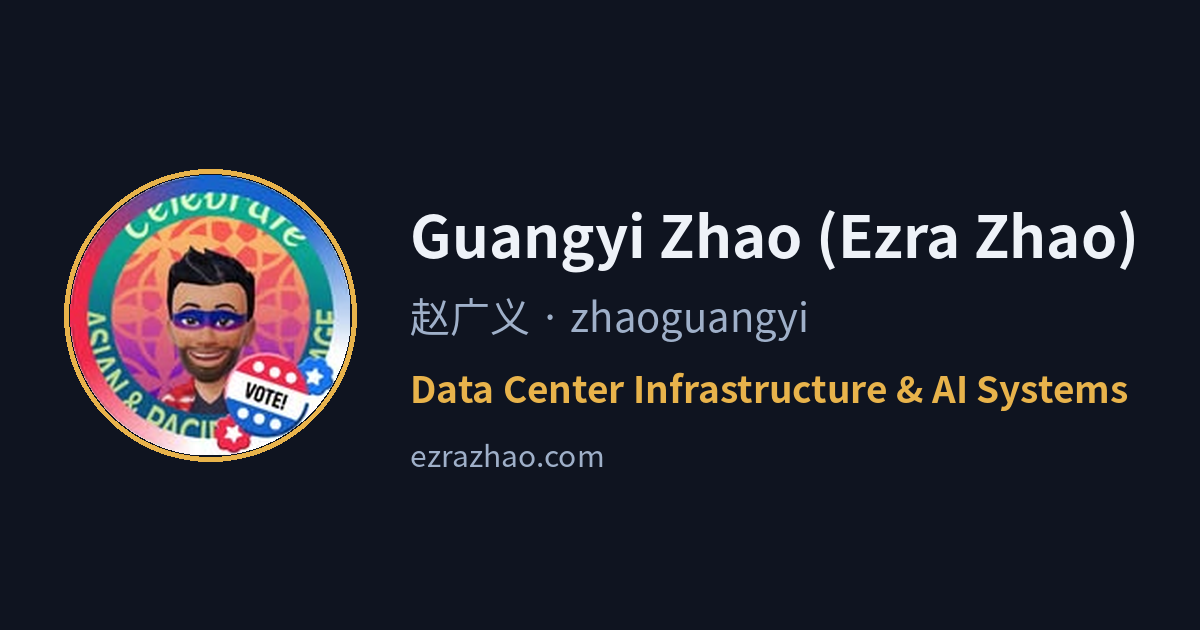
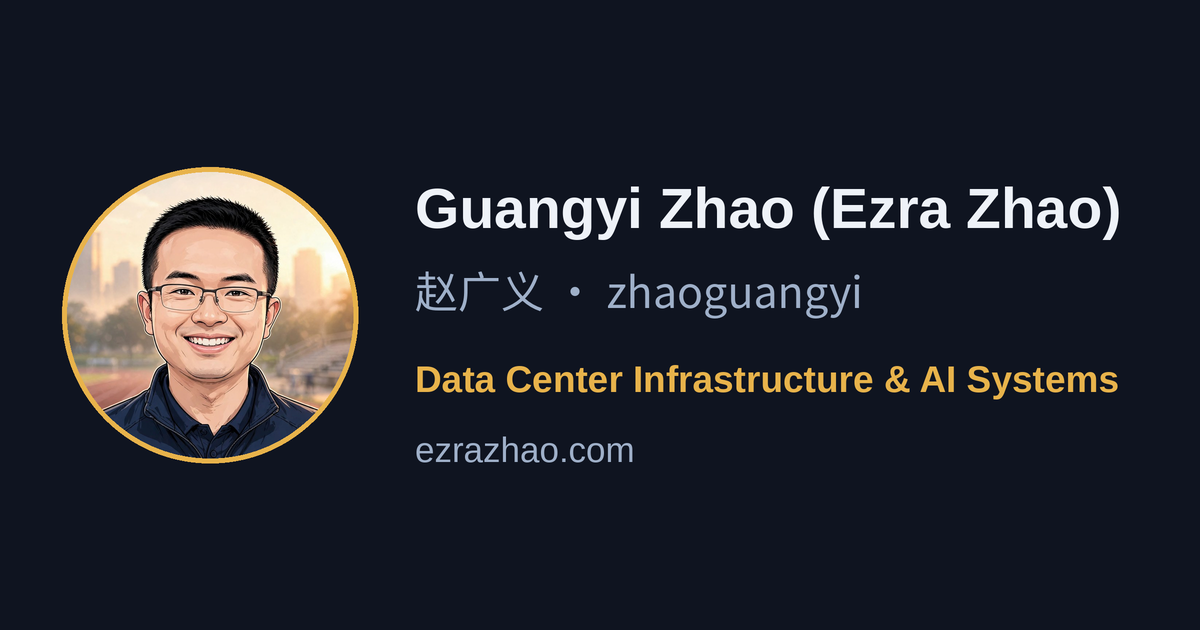
主页口径纠正（Ezra 16:51-16:52）：JSON-LD worksFor 删除 CoreNex Capital LLC 只留 Quanta（母版+11语言页）；preview2 认识我话术改「一个认真努力拉动全家的父亲和儿子」先人后事（门卡+#about首句）；关注模块 GitHub 后加「敬请期待」占位卡（跨2列·虚线·不可点）；头像换定版 S1（portrait.jpg 内容替换+og-card 圆形头像同步重做）

diff --git a/docs/preview2.html b/docs/preview2.html
@@ -43,6 +43,8 @@
   @media(min-width:640px){.fbtns{grid-template-columns:1fr 1fr 1fr}}
   .fbtn{display:block;background:var(--card2);border:1px solid var(--line);border-radius:14px;padding:9px 8px;text-decoration:none;color:var(--ink);font-size:14.5px;line-height:1.45}
   .fbtn b{color:var(--acc);display:block;font-size:16px}
+  .fbtn.soon{grid-column:span 2;border-style:dashed;background:transparent;color:var(--sub)}
+  .fbtn.soon b{color:var(--sub)}
   .followbox .mailab{margin-top:14px;font-size:16.5px;font-weight:700}
   main{max-width:760px;margin:0 auto;padding:6px 14px 48px}
   section{background:var(--card);border:1px solid var(--line);border-radius:14px;padding:18px 18px;margin-top:16px}
@@ -124,6 +126,7 @@
       <a class="fbtn" href="https://www.facebook.com/ezra.zhao"><b>Facebook</b> 关注</a>
       <a class="fbtn" href="https://www.facebook.com/profile.php?id=513125502098379"><b>FB 主页</b> Glory Power Media</a>
       <a class="fbtn" href="https://github.com/Ezra-Zhao"><b>GitHub</b> 关注</a>
+      <div class="fbtn soon"><b>敬请期待</b> 更多平台陆续开通</div>
     </div>
     <p class="mailab">订阅邮件，新内容直达邮箱</p>
     <div class="fbtns">
@@ -148,16 +151,17 @@
   </section>
 
   <div class="doors">
-    <a class="door" href="#about"><h3>认识我 <span class="arr">→</span></h3><p>白天做 AI 与数据中心基础设施的工程师：职业身份、擅长领域与公开主页。</p></a>
+    <a class="door" href="#about"><h3>认识我 <span class="arr">→</span></h3><p>一个认真努力拉动全家的父亲和儿子：他的工作、擅长与公开主页。</p></a>
     <a class="door" href="#podcast"><h3>听节目 <span class="arr">→</span></h3><p>讲道播客、每日灵修（五语）、赞美诗与视频：通勤、睡前都能听。</p></a>
     <a class="door" href="#books"><h3>读书买书 <span class="arr">→</span></h3><p>《圣经伴读》免费试读、讲道全集、拆书笔记、专栏与数字产品。</p></a>
   </div>
 
   <section id="about">
     <h2>认识我 <span class="tag">工程师 · PMP</span></h2>
+    <p class="desc">一个认真努力拉动全家的父亲和儿子。</p>
     <div class="jobs">
       <p>数据中心基础设施与系统工程师 · Quanta Manufacturing Fremont</p>
-      <p>高级技术项目经理（Senior TPM）· CoreNex Capital LLC</p>
+      <p>高级技术项目经理（Senior TPM）</p>
     </div>
     <div class="chips"><span>Data Center Infrastructure</span><span>Liquid Cooling Systems</span><span>Distributed GPU Clusters</span><span>AI Foundation Model Fine-Tuning</span><span>Linux System Administration</span><span>High-Speed Networking (InfiniBand, RoCE, 400G Ethernet)</span><span>Cybersecurity</span><span>Research &amp; Development</span><span>Turnkey Engineering Projects</span><span>AI Deployment</span></div>
     <p class="prow">公开主页：<a href="https://github.com/Ezra-Zhao">GitHub</a> · <a href="https://x.com/EzraZhao64144">X</a> · <a href="https://dev.to/ezrazhao">Dev.to 技术专栏</a></p>

diff --git a/docs/ar/index.html b/docs/ar/index.html
@@ -47,8 +47,7 @@
   "url": "https://ezrazhao.com/",
   "jobTitle": ["Data Center Infrastructure and Systems Engineer", "Senior TPM"],
   "worksFor": [
-    { "@type": "Organization", "name": "Quanta Manufacturing Fremont" },
-    { "@type": "Organization", "name": "CoreNex Capital LLC" }
+    { "@type": "Organization", "name": "Quanta Manufacturing Fremont" }
   ],
   "address": {
     "@type": "PostalAddress",

diff --git a/docs/en/index.html b/docs/en/index.html
@@ -47,8 +47,7 @@
   "url": "https://ezrazhao.com/",
   "jobTitle": ["Data Center Infrastructure and Systems Engineer", "Senior TPM"],
   "worksFor": [
-    { "@type": "Organization", "name": "Quanta Manufacturing Fremont" },
-    { "@type": "Organization", "name": "CoreNex Capital LLC" }
+    { "@type": "Organization", "name": "Quanta Manufacturing Fremont" }
   ],
   "address": {
     "@type": "PostalAddress",

diff --git a/docs/es/index.html b/docs/es/index.html
@@ -47,8 +47,7 @@
   "url": "https://ezrazhao.com/",
   "jobTitle": ["Data Center Infrastructure and Systems Engineer", "Senior TPM"],
   "worksFor": [
-    { "@type": "Organization", "name": "Quanta Manufacturing Fremont" },
-    { "@type": "Organization", "name": "CoreNex Capital LLC" }
+    { "@type": "Organization", "name": "Quanta Manufacturing Fremont" }
   ],
   "address": {
     "@type": "PostalAddress",

diff --git a/docs/fr/index.html b/docs/fr/index.html
@@ -47,8 +47,7 @@
   "url": "https://ezrazhao.com/",
   "jobTitle": ["Data Center Infrastructure and Systems Engineer", "Senior TPM"],
   "worksFor": [
-    { "@type": "Organization", "name": "Quanta Manufacturing Fremont" },
-    { "@type": "Organization", "name": "CoreNex Capital LLC" }
+    { "@type": "Organization", "name": "Quanta Manufacturing Fremont" }
   ],
   "address": {
     "@type": "PostalAddress",

diff --git a/docs/hi/index.html b/docs/hi/index.html
@@ -47,8 +47,7 @@
   "url": "https://ezrazhao.com/",
   "jobTitle": ["Data Center Infrastructure and Systems Engineer", "Senior TPM"],
   "worksFor": [
-    { "@type": "Organization", "name": "Quanta Manufacturing Fremont" },
-    { "@type": "Organization", "name": "CoreNex Capital LLC" }
+    { "@type": "Organization", "name": "Quanta Manufacturing Fremont" }
   ],
   "address": {
     "@type": "PostalAddress",

diff --git a/docs/id/index.html b/docs/id/index.html
@@ -47,8 +47,7 @@
   "url": "https://ezrazhao.com/",
   "jobTitle": ["Data Center Infrastructure and Systems Engineer", "Senior TPM"],
   "worksFor": [
-    { "@type": "Organization", "name": "Quanta Manufacturing Fremont" },
-    { "@type": "Organization", "name": "CoreNex Capital LLC" }
+    { "@type": "Organization", "name": "Quanta Manufacturing Fremont" }
   ],
   "address": {
     "@type": "PostalAddress",

diff --git a/docs/index.html b/docs/index.html
@@ -47,8 +47,7 @@
   "url": "https://ezrazhao.com/",
   "jobTitle": ["Data Center Infrastructure and Systems Engineer", "Senior TPM"],
   "worksFor": [
-    { "@type": "Organization", "name": "Quanta Manufacturing Fremont" },
-    { "@type": "Organization", "name": "CoreNex Capital LLC" }
+    { "@type": "Organization", "name": "Quanta Manufacturing Fremont" }
   ],
   "address": {
     "@type": "PostalAddress",

diff --git a/docs/ja/index.html b/docs/ja/index.html
@@ -47,8 +47,7 @@
   "url": "https://ezrazhao.com/",
   "jobTitle": ["Data Center Infrastructure and Systems Engineer", "Senior TPM"],
   "worksFor": [
-    { "@type": "Organization", "name": "Quanta Manufacturing Fremont" },
-    { "@type": "Organization", "name": "CoreNex Capital LLC" }
+    { "@type": "Organization", "name": "Quanta Manufacturing Fremont" }
   ],
   "address": {
     "@type": "PostalAddress",

diff --git a/docs/ko/index.html b/docs/ko/index.html
@@ -47,8 +47,7 @@
   "url": "https://ezrazhao.com/",
   "jobTitle": ["Data Center Infrastructure and Systems Engineer", "Senior TPM"],
   "worksFor": [
-    { "@type": "Organization", "name": "Quanta Manufacturing Fremont" },
-    { "@type": "Organization", "name": "CoreNex Capital LLC" }
+    { "@type": "Organization", "name": "Quanta Manufacturing Fremont" }
   ],
   "address": {
     "@type": "PostalAddress",

diff --git a/docs/pt/index.html b/docs/pt/index.html
@@ -47,8 +47,7 @@
   "url": "https://ezrazhao.com/",
   "jobTitle": ["Data Center Infrastructure and Systems Engineer", "Senior TPM"],
   "worksFor": [
-    { "@type": "Organization", "name": "Quanta Manufacturing Fremont" },
-    { "@type": "Organization", "name": "CoreNex Capital LLC" }
+    { "@type": "Organization", "name": "Quanta Manufacturing Fremont" }
   ],
   "address": {
     "@type": "PostalAddress",

diff --git a/docs/vi/index.html b/docs/vi/index.html
@@ -47,8 +47,7 @@
   "url": "https://ezrazhao.com/",
   "jobTitle": ["Data Center Infrastructure and Systems Engineer", "Senior TPM"],
   "worksFor": [
-    { "@type": "Organization", "name": "Quanta Manufacturing Fremont" },
-    { "@type": "Organization", "name": "CoreNex Capital LLC" }
+    { "@type": "Organization", "name": "Quanta Manufacturing Fremont" }
   ],
   "address": {
     "@type": "PostalAddress",
